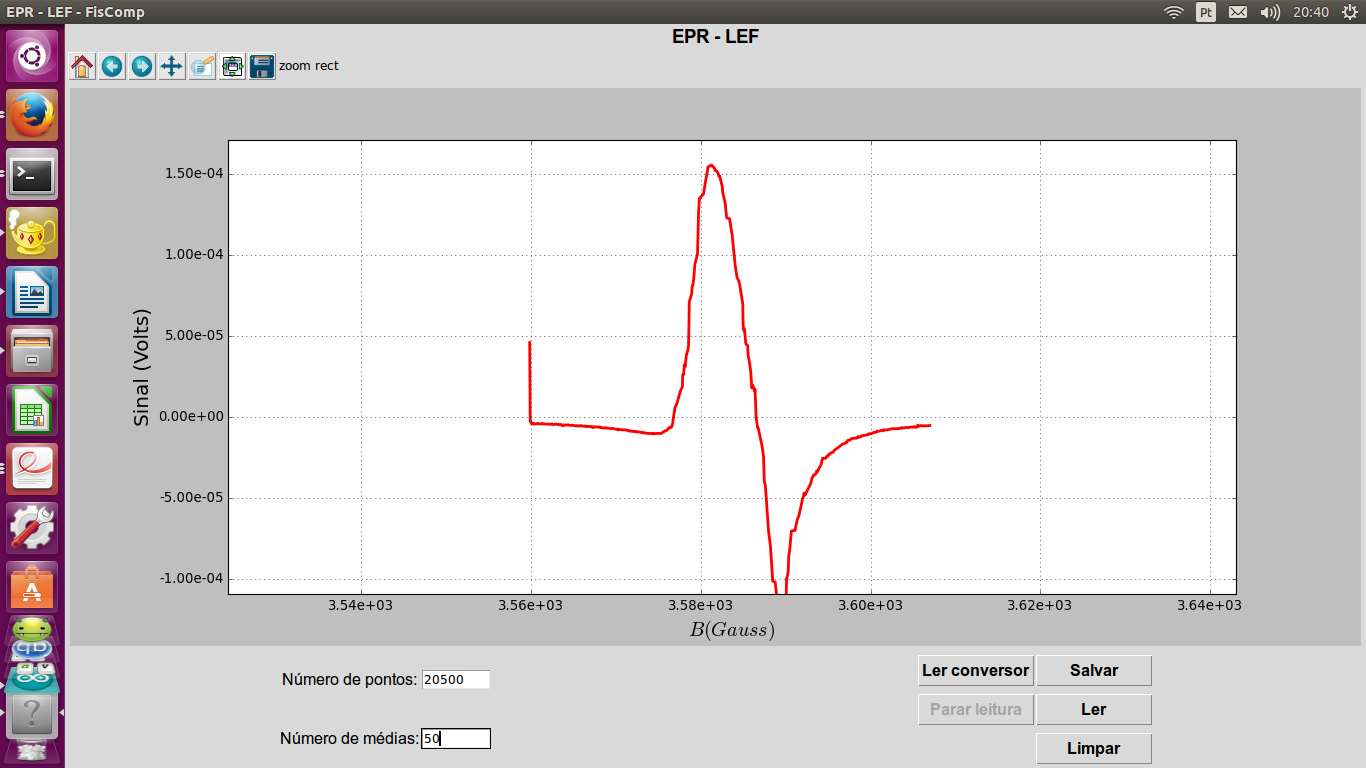
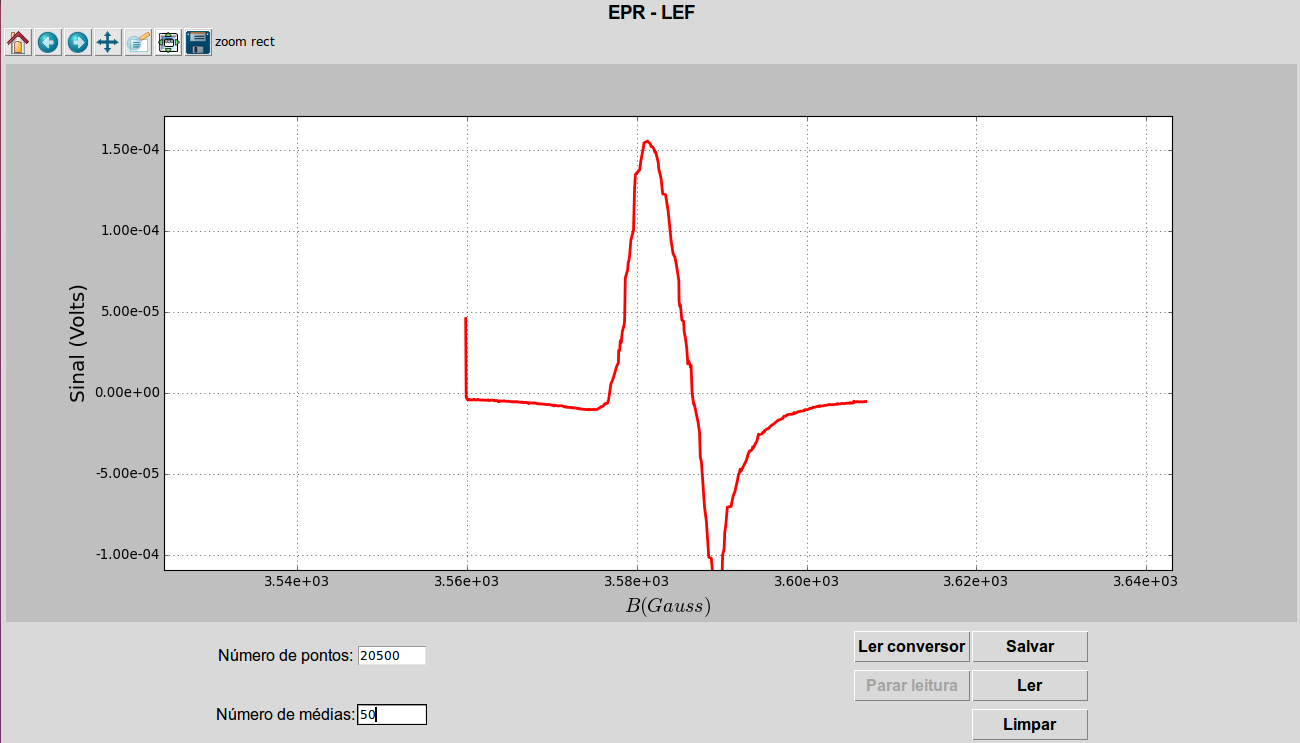
DOC + screenshot

Changed region(s): [[0.0, 0.0, 1.0, 1.0], [0.1538, 0.9287, 0.3692, 0.9906], [0.3385, 0.4334, 0.3692, 0.4643]]

diff --git a/doc/equipamento.rst b/doc/equipamento.rst
@@ -244,14 +244,31 @@ Ligar o espectrômetro
            Ligue o lock-in, em seu painel verifique a sensibilidade (sensitivity) esta marcando 200 uV, verifique se o offset do aparelho esta em off.
 
         #. Agora deve ser possível observar o sinal do EPR no display do lock-in. No controlador de varredura varie B_0 até que no display do lock-in seja possível observar uma variação brusca do sinal. Varie B_0 com cuidado, o aparelho é muito sensível a pequenas variações de campo.
-	
+
 	#. Antes de ligar o arduino na saída USB do computador verifique se os fios estão ligados corretamente.
            Verifique se as saídas Rx e Tx do shield RS232 estão ligados nos pinos 11 e 10 do arduino respectivamente.
            No conversor ADC verifique se os pinos A1 e GND estão ligados na saída marcada de campo magnético do controlador de varredura.
 
-	#. Inicie o programa EPR-LEF com o comando EPR-LEF.py.
-           Nesse programa o usuário tem controle sobre o número de pontos a serem coletados para o gráfico e o número de  amostragem para média assim, por exemplo, se o usuário colocar 1000 pontos e 50 médio o gráfico ira conter 1000 pontos e cada ponto será a média de 50 amostragens do lock-in.
-           Há também a opção de salvar ou ler um gráfico, limpar a tela do gráfico e parar a varredura.
+	#. Inicie o programa EPR-LEF com o comando python EPR-LEF.py.
+
+           Nesse programa o usuário tem controle sobre o número de pontos a
+           serem coletados para o gráfico e o número de amostragem para
+           média assim, por exemplo, se o usuário colocar 1000 pontos e 50
+           médias o gráfico ira conter 1000 pontos e cada ponto será a média
+           de 50 amostragens do lock-in.
+
+           Há também a opção de salvar ou ler um gráfico, limpar a tela do
+           gráfico e parar a varredura.
+
+           Exemplo de uma aquisição está na :numref:`fig_screenshot` a seguir.
+
+           .. _fig_screenshot:
+
+           .. figure:: img/sinal-epr.png
+              :width: 75%
+              :align: center
+
+              Tela do programa.
 
 
 Desligar o espectrômetro
